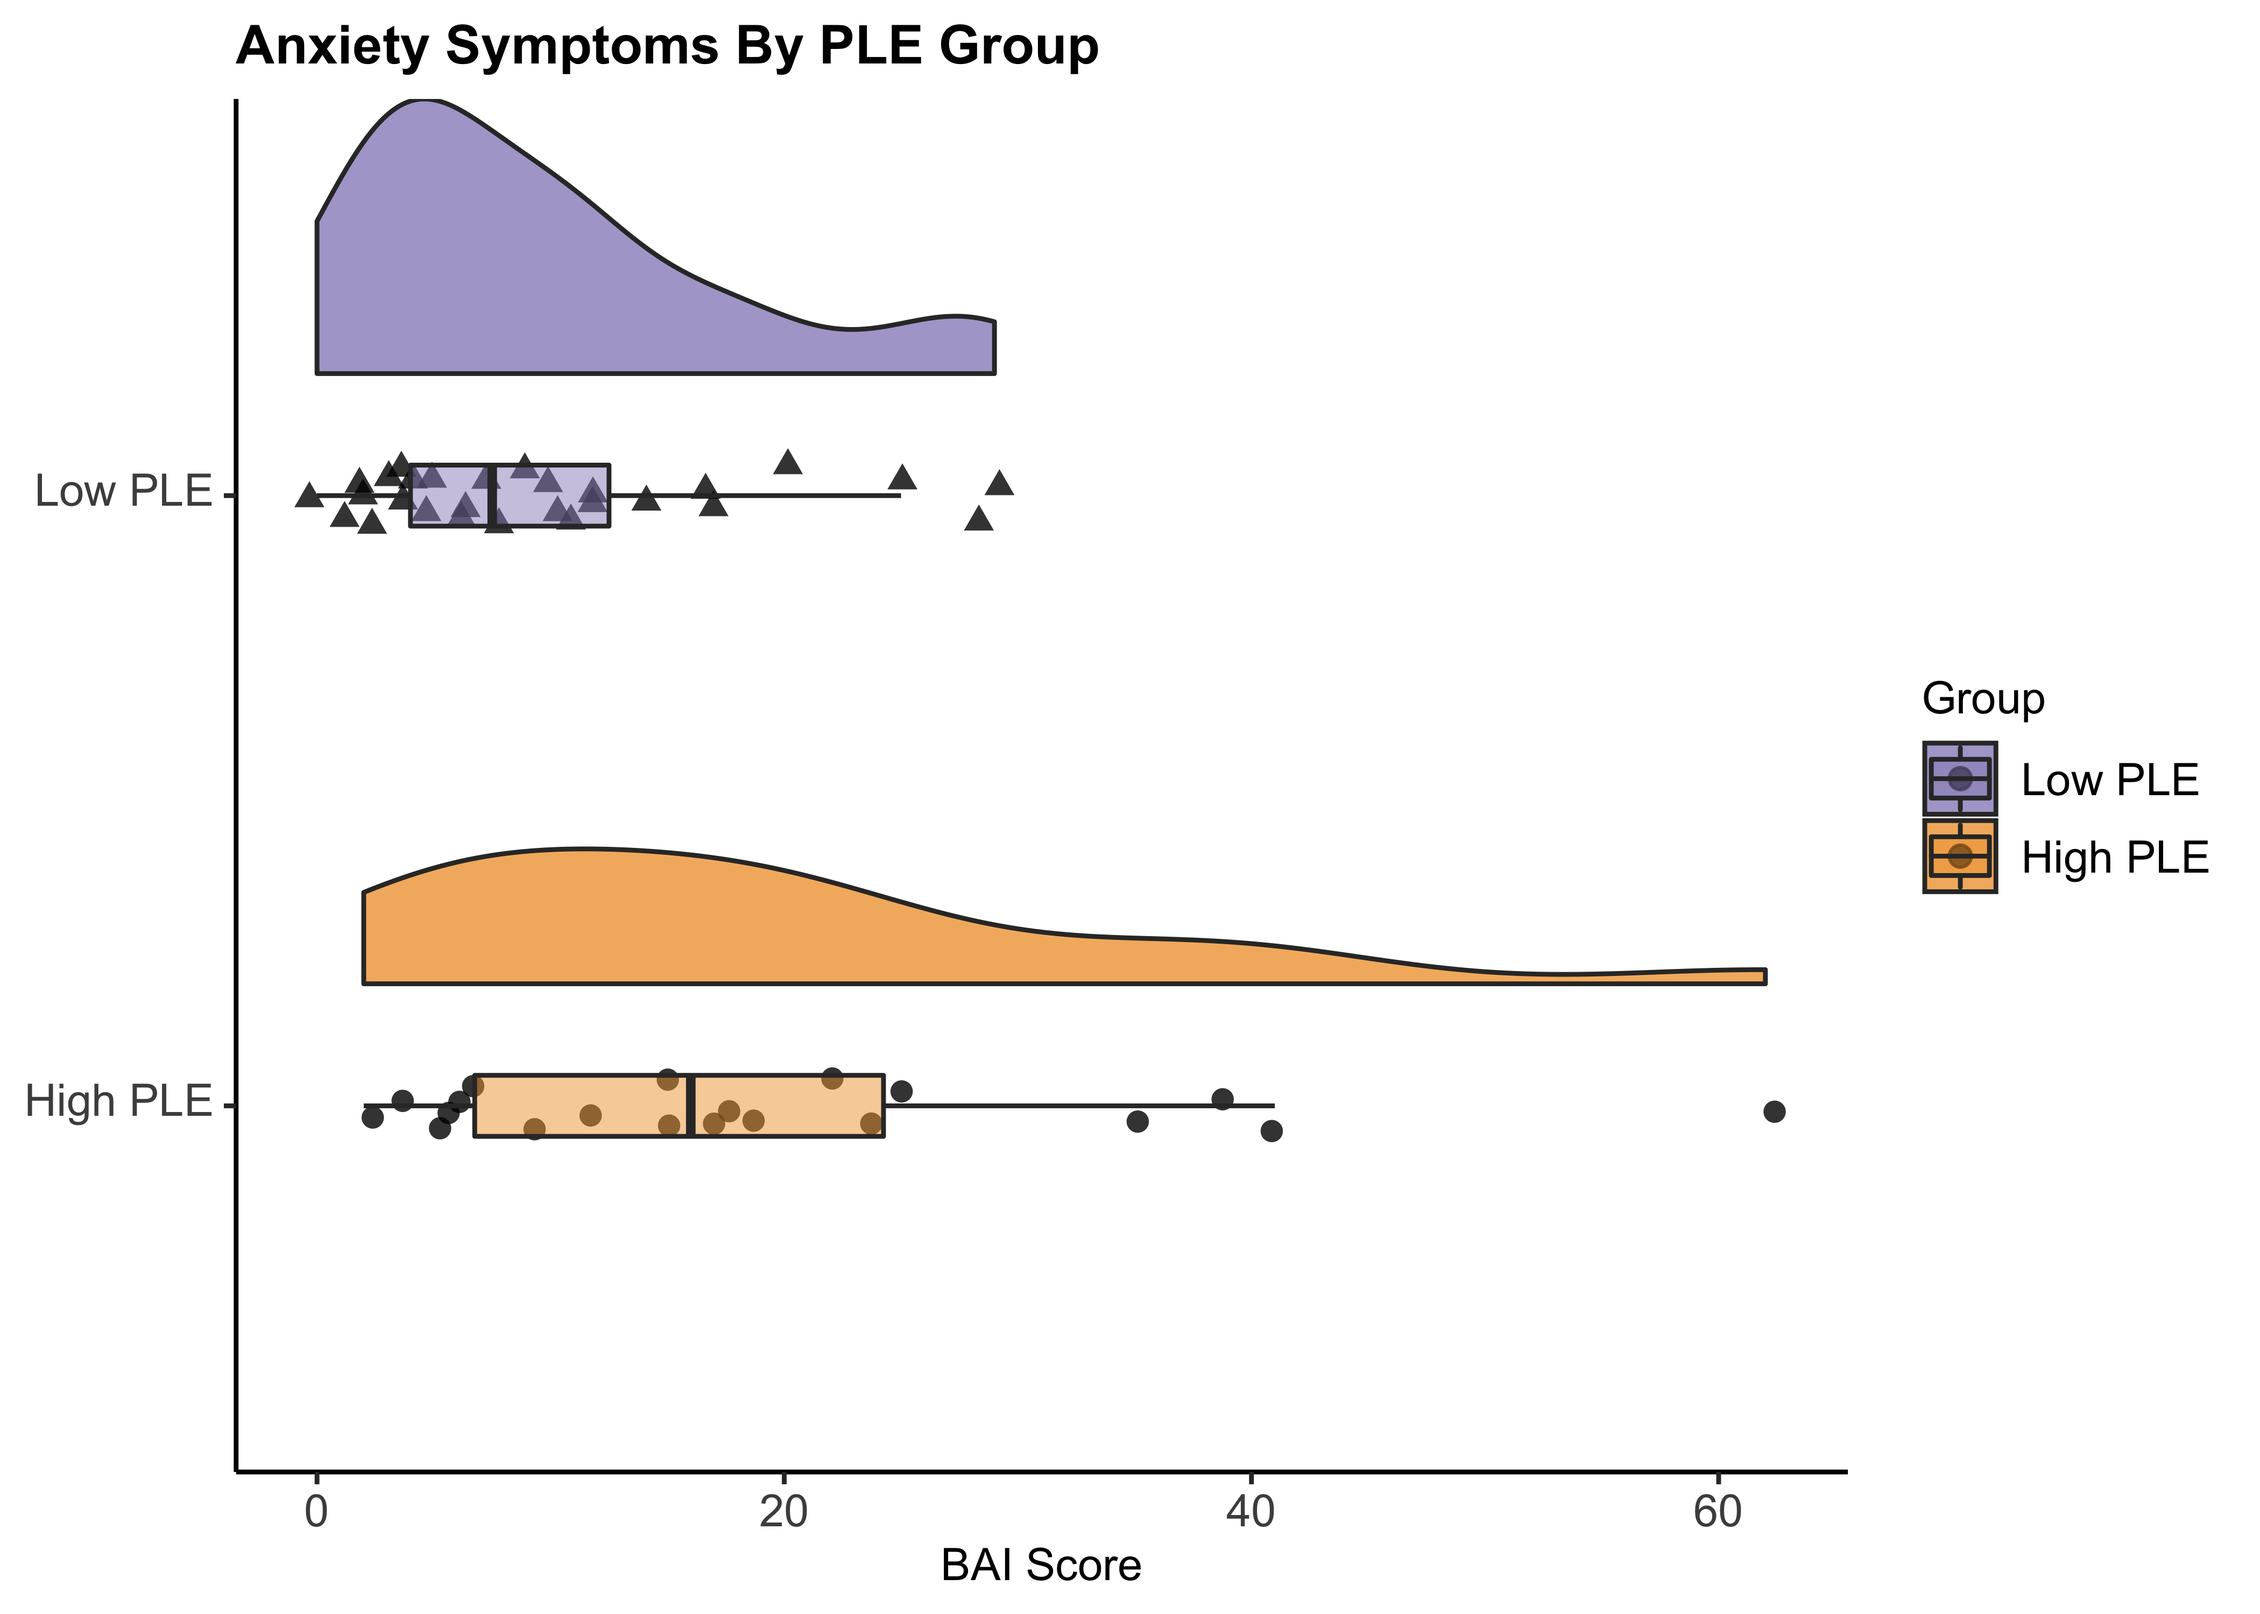
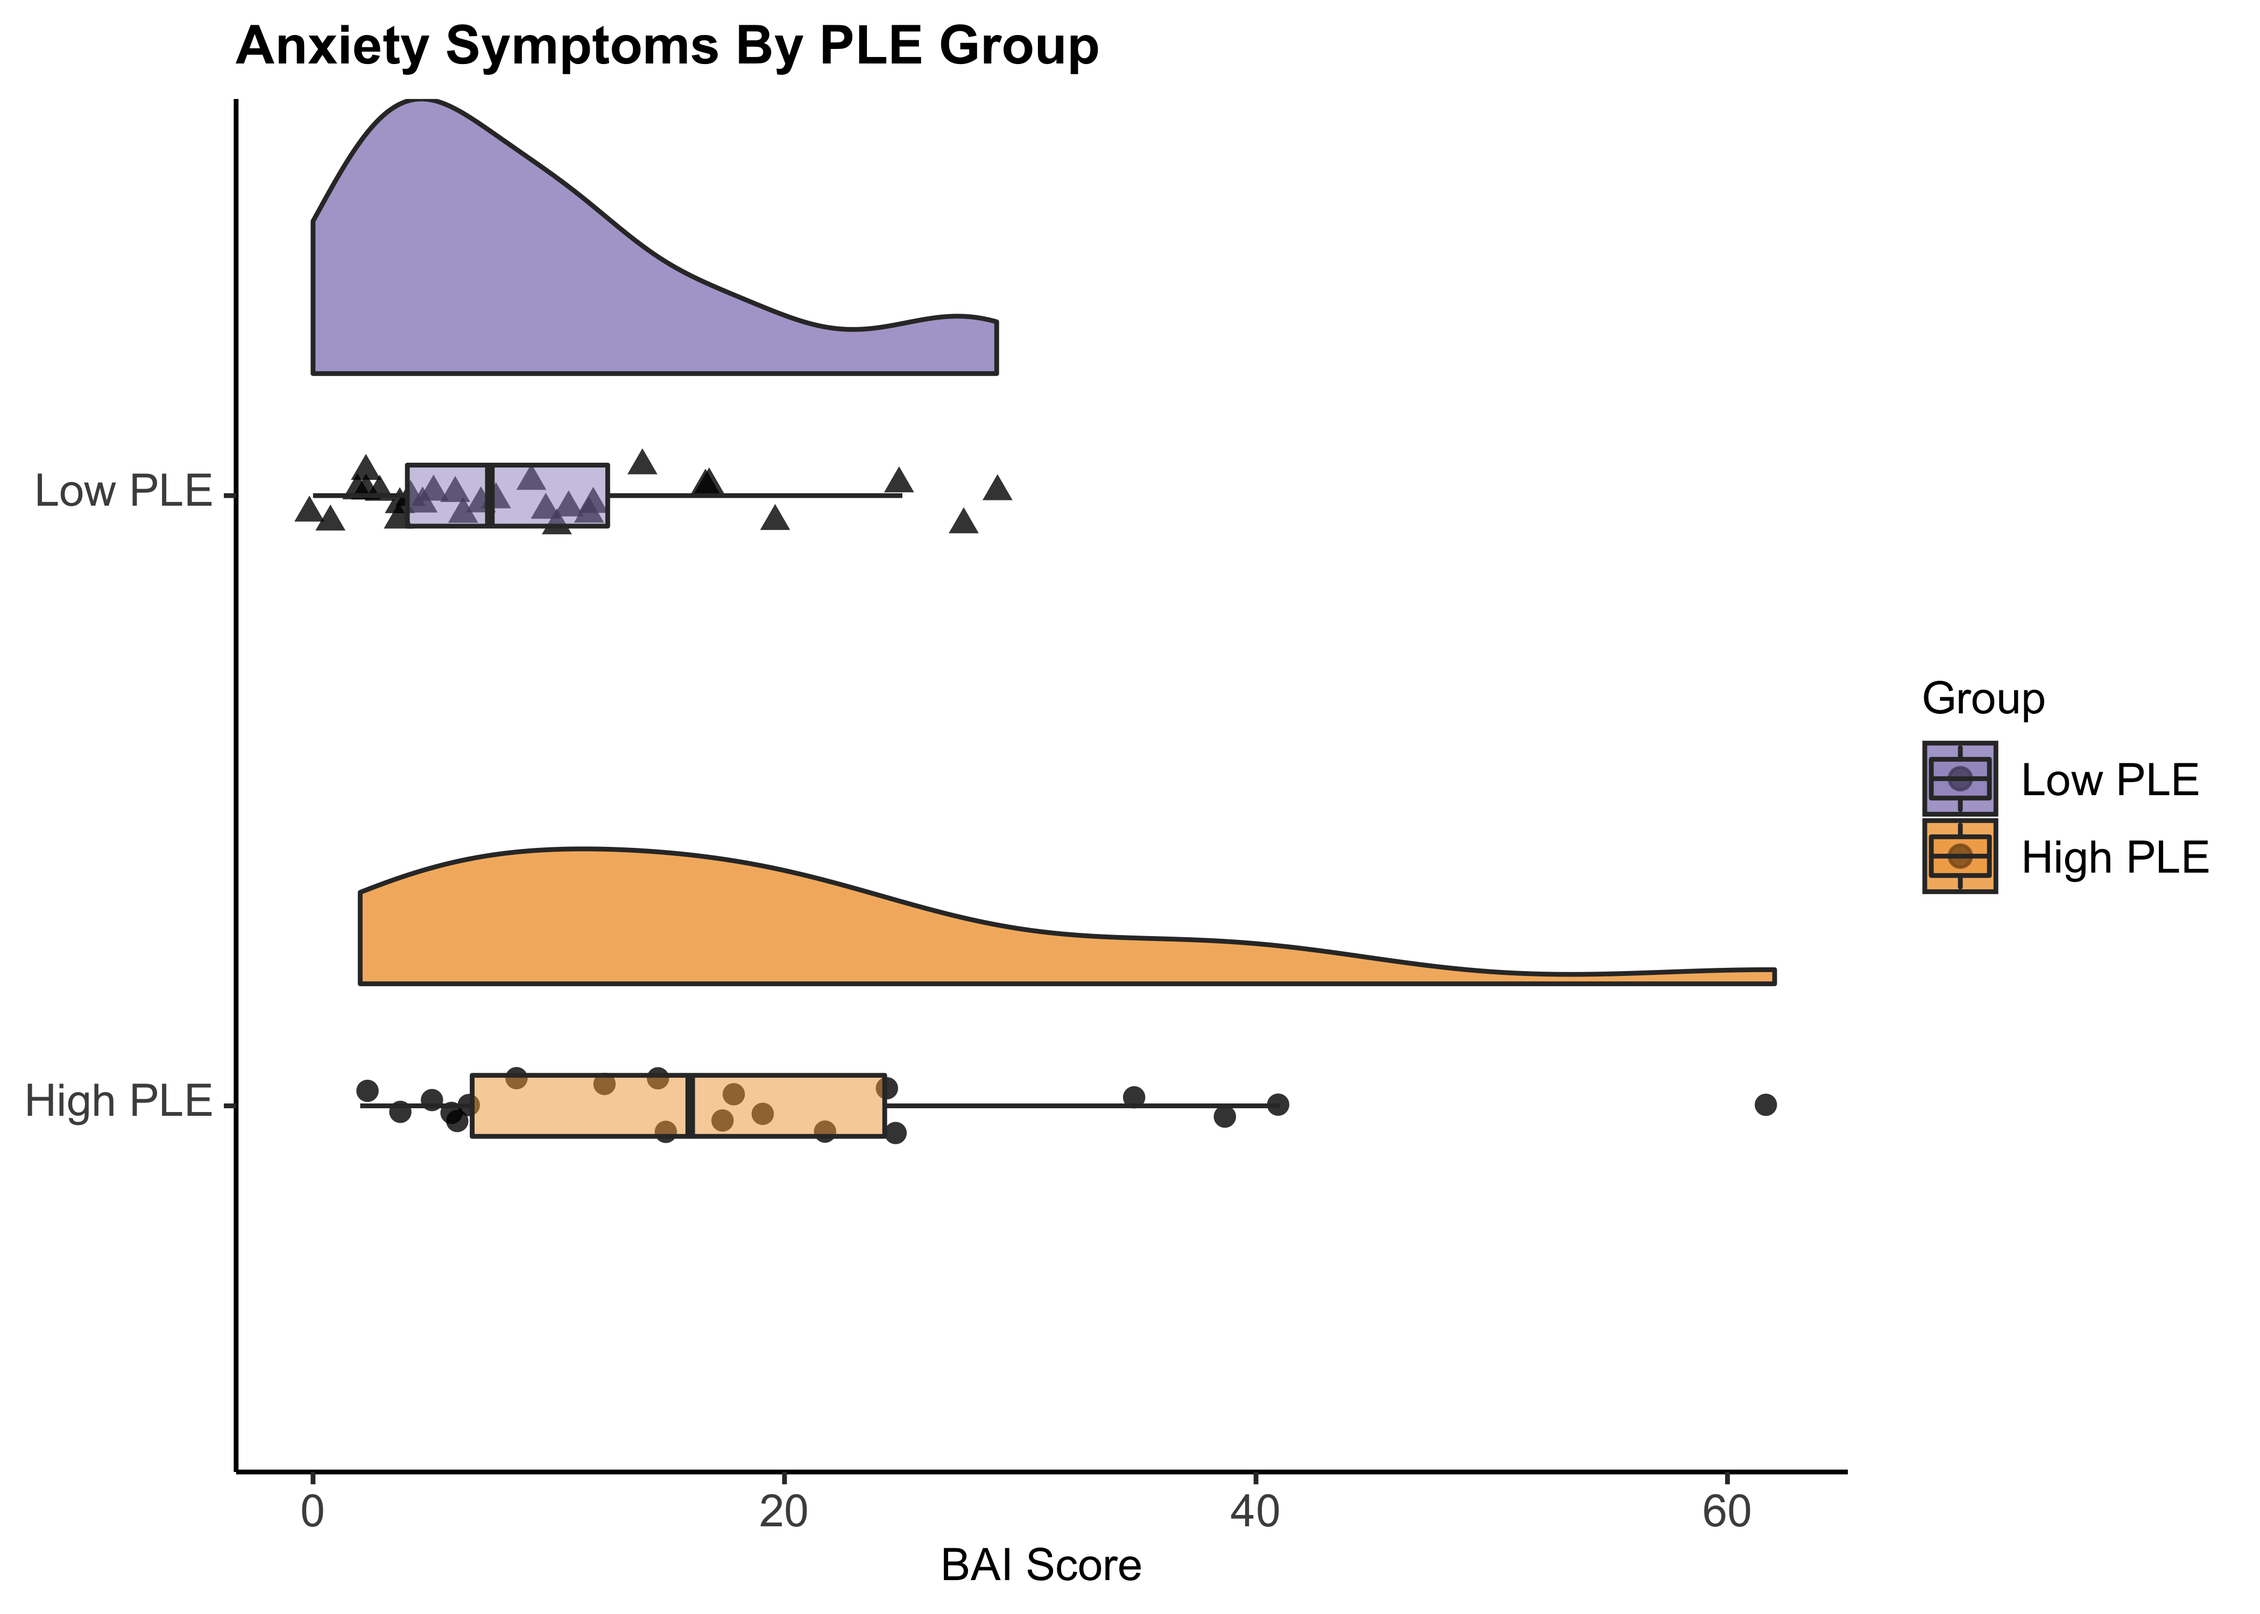
figures update (second attempt)

diff --git a/analysis.md b/analysis.md
@@ -4,7 +4,7 @@ Jadyn Park
 1/20/2021
 
 **Research Questions:**  
-**1.** Do High-NCP and Low-NCP groups perform differently in a cognitive
+**1.** Do High-PLE and Low-PLE groups perform differently in a cognitive
 task?  
 **2.** Are clinically relevant traits/symptoms (i.e., anxiety) related
 to the difference in group performance?  
@@ -13,19 +13,19 @@ learning tasks?
 
 **Research Aims:**  
 **Aim 1.** To test group differences in cognitive performance (accuracy,
-efficiency) in Low vs. High NCP  
+efficiency) in Low vs. High PLE  
 **Aim 2.** To test if group performance is related to clinically
 relevant traits (e.g., anxiety)  
 **Aim 3.** To test if relevant traits are correlated with perseveration
 errors in a rule-learning task
 
 **Hypotheses:**  
-**1.** Low NCPs perform better than high NCPs  
+**1.** Low PLEs perform better than high PLEs  
 **2.** Greater the BAI (anxiety) scores, worse the performance  
-**3.** Low NCPs perseverate less than high NCPs and anxiety symptoms are
+**3.** Low PLEs perseverate less than high PLEs and anxiety symptoms are
 correlated with this relationship  
-**3.1.** Alternatively, greater anxiety may only affect high NCP but not
-low NCP
+**3.1.** Alternatively, greater anxiety may only affect high PLE but not
+low PLE
 
 ``` r
 #load libraries 
@@ -56,7 +56,7 @@ demo <- data %>% group_by(Group) %>%
 
 demo <- data.frame(t(demo)) # transpose
 demo <- demo[2:12,]
-colnames(demo) <- c("High NCP", "Low NCP") # column names
+colnames(demo) <- c("High PLE", "Low PLE") # column names
 rownames(demo) <- c("N", "Mean", "SD", "Education", "Edu SD", "Female", "Male", 
                            "East Asian", "White", "Interracial", "Black") # row names
 
@@ -78,10 +78,10 @@ Participant Demographics
 <th style="text-align:left;">
 </th>
 <th style="text-align:left;">
-High NCP
+High PLE
 </th>
 <th style="text-align:left;">
-Low NCP
+Low PLE
 </th>
 </tr>
 </thead>
@@ -478,8 +478,8 @@ ggplot(SR, aes(x=Pos_Freq, y=BAI.sum, col = Group)) +
 
 ![](analysis_files/figure-gfm/selfreport-2.png)<!-- -->
 
-Significant main effect of group on anxiety such that the high-NCP group
-endorsed more anxiety symptoms than the low-NCP group
+Significant main effect of group on anxiety such that the high-PLE group
+endorsed more anxiety symptoms than the low-PLE group
 
 ``` r
 # Linear Regression Summary 
@@ -760,7 +760,7 @@ Cohen’s D
 </tbody>
 </table>
 
-Main effect of NCP Status and Anxiety on Performance & Perseverative
+Main effect of PLE Status and Anxiety on Performance & Perseverative
 errors
 
 ``` r
@@ -1215,19 +1215,6 @@ summary(lm(data = interac2, PER_ER ~ BAI.sum*Group))
     ## Multiple R-squared:  0.3155, Adjusted R-squared:  0.2688 
     ## F-statistic: 6.759 on 3 and 44 DF,  p-value: 0.0007557
 
-Testing mediation model (does anxiety mediate the relationship between
-PLE and Executive functioning measures?)
-
-``` r
-## NAs must be omitted to run the mediation model
-model.data <- data %>% dplyr::select(Pos_Freq, BAI.sum, PCET_ACC2, PCET_EFF, PER_ER)
-model.data <- na.omit(model.data)
-
-## 1. Test the total effect (the effect of PLE -> performance)
-acc.totaleffect=lm(PCET_ACC2~Pos_Freq, model.data)
-summary(acc.totaleffect)
-```
-
     ## 
     ## Call:
     ## lm(formula = PCET_ACC2 ~ Pos_Freq, data = model.data)
@@ -1246,14 +1233,6 @@ summary(acc.totaleffect)
     ## Residual standard error: 0.8409 on 46 degrees of freedom
     ## Multiple R-squared:  0.1238, Adjusted R-squared:  0.1048 
     ## F-statistic:   6.5 on 1 and 46 DF,  p-value: 0.01419
-
-``` r
-  # total effect of PLE on Accuracy is significant (p=.01)
-
-## PLE -> Efficiency
-eff.totaleffect=lm(PCET_EFF~Pos_Freq, model.data)
-summary(eff.totaleffect)
-```
 
     ## 
     ## Call:
@@ -1274,14 +1253,6 @@ summary(eff.totaleffect)
     ## Multiple R-squared:  0.1371, Adjusted R-squared:  0.1183 
     ## F-statistic: 7.306 on 1 and 46 DF,  p-value: 0.009596
 
-``` r
-  # total effect of PLE on Efficiency is significant (p=.01)
-
-## PLE -> Perseverative errors
-err.totaleffect=lm(PER_ER~Pos_Freq, model.data)
-summary(err.totaleffect)
-```
-
     ## 
     ## Call:
     ## lm(formula = PER_ER ~ Pos_Freq, data = model.data)
@@ -1301,14 +1272,6 @@ summary(err.totaleffect)
     ## Multiple R-squared:  0.1464, Adjusted R-squared:  0.1278 
     ## F-statistic: 7.887 on 1 and 46 DF,  p-value: 0.007284
 
-``` r
-  # total effect of PLE on Perseverative Errors is significant (p<.01)
-
-## 2. Test the effect of IV on the mediator (PLE -> anxiety)
-fit.mediator=lm(BAI.sum~Pos_Freq, model.data)
-summary(fit.mediator)
-```
-
     ## 
     ## Call:
     ## lm(formula = BAI.sum ~ Pos_Freq, data = model.data)
@@ -1327,14 +1290,6 @@ summary(fit.mediator)
     ## Residual standard error: 11 on 46 degrees of freedom
     ## Multiple R-squared:  0.2298, Adjusted R-squared:  0.213 
     ## F-statistic: 13.72 on 1 and 46 DF,  p-value: 0.0005665
-
-``` r
-  # significant effect of PLE on anxiety (p<.01)
-
-## 3. Test the effect of mediator on DV (anxiety -> performance)
-fit.acc=lm(PCET_ACC2~Pos_Freq+BAI.sum, model.data)
-summary(fit.acc)
-```
 
     ## 
     ## Call:
@@ -1356,14 +1311,6 @@ summary(fit.acc)
     ## Multiple R-squared:  0.1667, Adjusted R-squared:  0.1297 
     ## F-statistic: 4.501 on 2 and 45 DF,  p-value: 0.01652
 
-``` r
-  # the mediator does not have significant effect (p=.135)
-  # PLE is still a significant predictor of accuracy
-
-fit.eff=lm(PCET_EFF~Pos_Freq+BAI.sum, model.data)
-summary(fit.eff)
-```
-
     ## 
     ## Call:
     ## lm(formula = PCET_EFF ~ Pos_Freq + BAI.sum, data = model.data)
@@ -1383,15 +1330,6 @@ summary(fit.eff)
     ## Residual standard error: 0.09195 on 45 degrees of freedom
     ## Multiple R-squared:  0.1866, Adjusted R-squared:  0.1504 
     ## F-statistic: 5.161 on 2 and 45 DF,  p-value: 0.009599
-
-``` r
-  # the mediator does not have significant effect (p=.105)
-  # PLE is still a significant predictor of efficiency
-
-
-fit.err=lm(PER_ER~Pos_Freq+BAI.sum, model.data)
-summary(fit.err)
-```
 
     ## 
     ## Call:
@@ -1413,30 +1351,16 @@ summary(fit.err)
     ## Multiple R-squared:  0.2313, Adjusted R-squared:  0.1971 
     ## F-statistic:  6.77 on 2 and 45 DF,  p-value: 0.002688
 
-``` r
-  # the mediator significantly predicts perseverative errors (p<.05)
-  # PLE is still a significant predictor of perseverative errors
-
-## 4. Causal mediation analysis
-library(mediation)
-
-
-## Do anxiety symptoms mediate PLE -> accuracy?
-acc_results=mediate(fit.mediator, fit.acc, treat='Pos_Freq',
-                mediator='BAI.sum', boot=T)
-summary(acc_results)
-```
-
     ## 
     ## Causal Mediation Analysis 
     ## 
     ## Nonparametric Bootstrap Confidence Intervals with the Percentile Method
     ## 
-    ##                Estimate 95% CI Lower 95% CI Upper p-value  
-    ## ACME             0.0185      -0.0102         0.06    0.25  
-    ## ADE             -0.0760      -0.1317        -0.01    0.02 *
-    ## Total Effect    -0.0575      -0.1013        -0.01    0.02 *
-    ## Prop. Mediated  -0.3215      -1.8879         0.26    0.25  
+    ##                Estimate 95% CI Lower 95% CI Upper p-value   
+    ## ACME             0.0185      -0.0103         0.06    0.28   
+    ## ADE             -0.0760      -0.1345        -0.02    0.01 **
+    ## Total Effect    -0.0575      -0.1064        -0.01    0.02 * 
+    ## Prop. Mediated  -0.3215      -1.4821         0.32    0.30   
     ## ---
     ## Signif. codes:  0 '***' 0.001 '**' 0.01 '*' 0.05 '.' 0.1 ' ' 1
     ## 
@@ -1445,28 +1369,16 @@ summary(acc_results)
     ## 
     ## Simulations: 1000
 
-``` r
-  # ACME: no indirect effect of PLE on accuracy (p=.228)
-  # ADE: direct effect of PLE on accuracy when controlling for anxiety
-  # Total Effect
-  # 
-
-## Do anxiety symptoms mediate PLE -> efficiency?
-eff_results=mediate(fit.mediator, fit.eff, treat='Pos_Freq',
-                mediator='BAI.sum', boot=T)
-summary(eff_results)
-```
-
     ## 
     ## Causal Mediation Analysis 
     ## 
     ## Nonparametric Bootstrap Confidence Intervals with the Percentile Method
     ## 
-    ##                Estimate 95% CI Lower 95% CI Upper p-value  
-    ## ACME            0.00223     -0.00105         0.01   0.216  
-    ## ADE            -0.00902     -0.01514         0.00   0.016 *
-    ## Total Effect   -0.00679     -0.01151         0.00   0.016 *
-    ## Prop. Mediated -0.32827     -2.01897         0.19   0.216  
+    ##                 Estimate 95% CI Lower 95% CI Upper p-value  
+    ## ACME            0.002229    -0.000969         0.01   0.220  
+    ## ADE            -0.009019    -0.015137         0.00   0.012 *
+    ## Total Effect   -0.006790    -0.011722         0.00   0.020 *
+    ## Prop. Mediated -0.328273    -1.814032         0.23   0.236  
     ## ---
     ## Signif. codes:  0 '***' 0.001 '**' 0.01 '*' 0.05 '.' 0.1 ' ' 1
     ## 
@@ -1475,23 +1387,16 @@ summary(eff_results)
     ## 
     ## Simulations: 1000
 
-``` r
-## DO anxiety symptoms mediate PLE -> perseverative errors?
-err_results=mediate(fit.mediator, fit.err, treat='Pos_Freq',
-                mediator='BAI.sum', boot=T)
-summary(err_results)
-```
-
     ## 
     ## Causal Mediation Analysis 
     ## 
     ## Nonparametric Bootstrap Confidence Intervals with the Percentile Method
     ## 
-    ##                Estimate 95% CI Lower 95% CI Upper p-value    
-    ## ACME             -0.252       -0.681         0.03   0.112    
-    ## ADE               0.858        0.320         1.41  <2e-16 ***
-    ## Total Effect      0.606        0.157         1.09   0.004 ** 
-    ## Prop. Mediated   -0.416       -2.077         0.05   0.116    
+    ##                Estimate 95% CI Lower 95% CI Upper p-value   
+    ## ACME             -0.252       -0.665         0.02   0.082 . 
+    ## ADE               0.858        0.324         1.36   0.002 **
+    ## Total Effect      0.606        0.134         1.02   0.012 * 
+    ## Prop. Mediated   -0.416       -1.929         0.03   0.094 . 
     ## ---
     ## Signif. codes:  0 '***' 0.001 '**' 0.01 '*' 0.05 '.' 0.1 ' ' 1
     ## 
